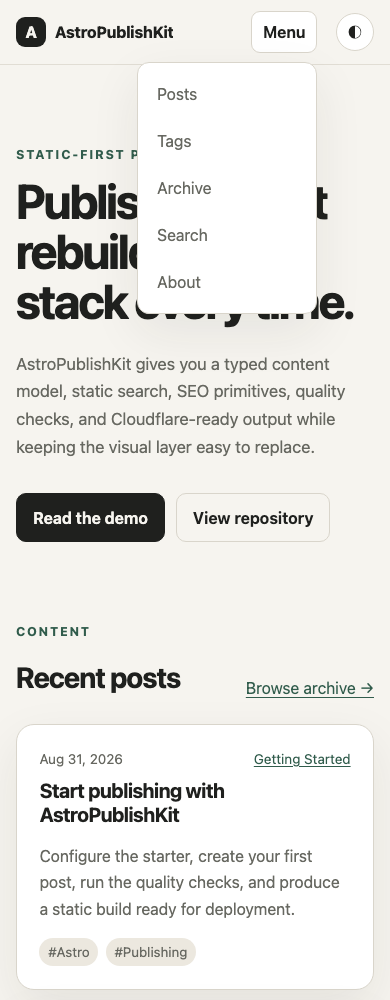
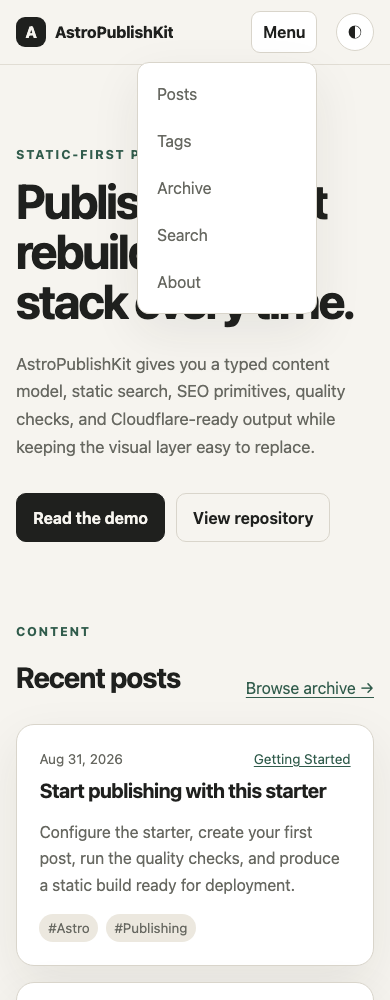
fix: keep demo branding scoped to demo articles

Changed region(s): [[0.0308, 0.775, 0.9538, 1.0]]

diff --git a/src/content/posts/getting-started.md b/src/content/posts/getting-started.md
@@ -1,5 +1,5 @@
 ---
-title: Start publishing with AstroPublishKit
+title: Start publishing with this starter
 description: Configure the starter, create your first post, run the quality checks, and produce a static build ready for deployment.
 date: 2026-08-31
 category: Getting Started
